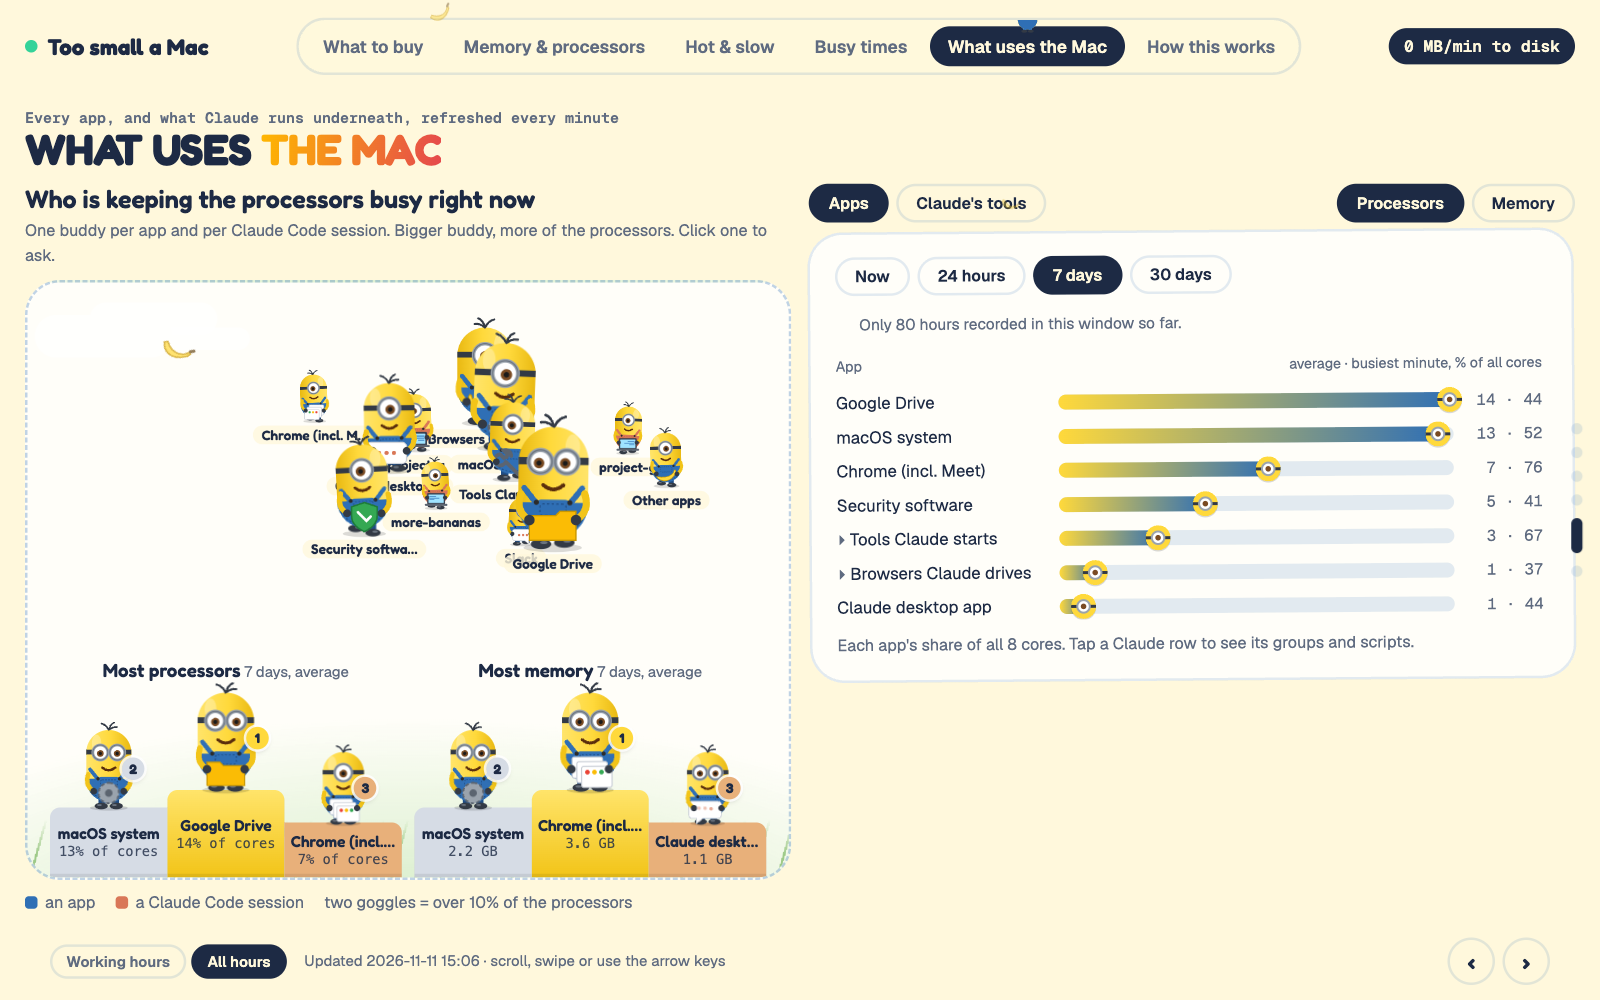
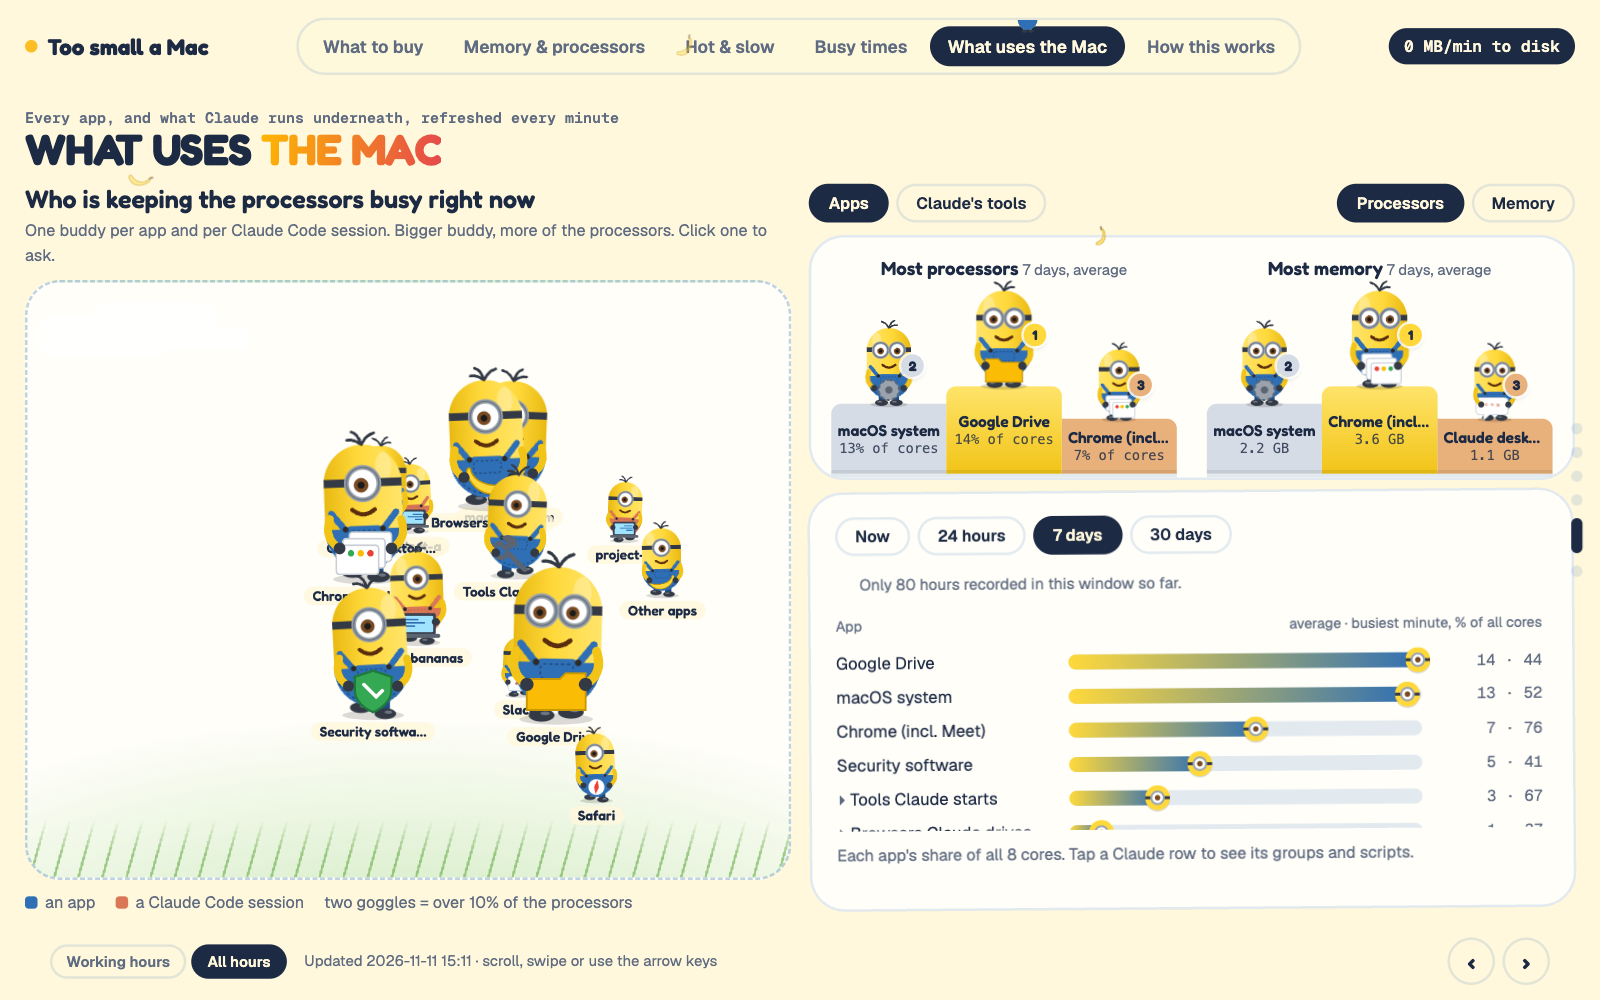
1.11.1: podiums move above the app list, so What uses the Mac is balanced
The two podiums leave the buddy yard for a card at the top of the right
column, above the app list; the list card stretches so both columns end
level. One time window now applies to every list on the tab, so the podium
and whichever list is showing always agree. Figures in the list stay on one
line. The podium hides on the Claude's tools view, since it ranks apps.

Changed region(s): [[0.0312, 0.217, 1.0, 0.93], [0.3125, 0.961, 0.4375, 0.992], [0.0938, 0.341, 0.125, 0.372]]

diff --git a/skills/more-bananas/app/report.py b/skills/more-bananas/app/report.py
@@ -1099,7 +1099,9 @@ h2.big{{font-size:clamp(1.6rem,2.7vw,2.5rem)}} .lede{{max-width:none;font-size:1
 #p-today .two{{align-items:stretch}} #p-today .tmem>.c:last-child .list{{max-height:calc(100dvh - 310px);overflow:auto}}
 svg.hist{{height:calc(100dvh - 430px);width:auto;max-width:100%;margin:0 auto}}
 .howc ul{{display:block;columns:2;column-gap:32px;font-size:12.5px;line-height:1.4;max-width:none}} @media(min-width:1200px){{.howc ul{{columns:3}}}} .howc li{{break-inside:avoid;margin-bottom:8px}}
-.whogrid{{grid-template-columns:1fr 1fr}} .yard{{height:calc(100dvh - 320px)!important}} .jobs .list{{max-height:calc(100dvh - 380px)}}
+.whogrid{{grid-template-columns:1fr 1fr}} .yard{{height:calc(100dvh - 320px)!important}} .jobs .list{{max-height:calc(100dvh - 380px)}} .podcard{{height:196px}} .vv[data-vv=apps] .jobs .list{{max-height:calc(100dvh - 590px)}}
+.row.ur{{grid-template-columns:minmax(0,11rem) 1fr 5.4rem}} .row.ur em{{white-space:nowrap}}
+.whogrid>div:last-child,.whogrid .vv:not([hidden]){{display:flex;flex-direction:column}} .whogrid .vv:not([hidden]){{flex:1}} .whogrid .mbox:not([hidden]){{flex:1}}
 .usebar{{display:flex;gap:10px;flex-wrap:wrap;justify-content:space-between}} .usebar .jtabs{{margin-bottom:10px}}
 #p-rec .hero{{gap:4px 18px;grid-template-columns:auto minmax(0,1fr) minmax(0,1.25fr)}} #p-rec .lesson{{flex-wrap:wrap;font-size:15px;line-height:1.45;padding:12px 16px}} #p-rec .lesson .ctl{{width:100%;justify-content:flex-end;margin-top:6px}} #p-rec .hero .buddy-wrap{{grid-row:1/span 3}} #p-rec .hero #lesson{{grid-column:3;grid-row:1/span 3;align-self:center;margin:0}} #p-rec .hero h1{{font-size:clamp(1.5rem,2.6vw,2.4rem)}}
 .recgrid{{display:grid;grid-template-columns:3fr 2fr;gap:12px;align-items:start}} .recl,.recr{{display:flex;flex-direction:column;gap:12px;min-width:0}}
@@ -1187,6 +1189,7 @@ details.storagebox{{font-size:13px}} details.storagebox>.c{{border:0;padding:8px
 <div class=en style="--n:1"><!--YARD--><script type=application/json id=podium-data>{podium_json}</script></div>
 <div class=en style="--n:2"><div class=usebar><div class="jtabs vtabs" role=group aria-label="Show"><button type=button class="jt vt" data-vv=apps aria-pressed=true>Apps</button><button type=button class="jt vt" data-vv=claude aria-pressed=false>Claude&#x27;s tools</button></div>{mtabs("uses", m_first)}</div>
 <div class=vv data-vv=apps>
+<div class="c podcard" id=podium-host aria-label="The three apps using the most processors and the most memory"></div>
 {f"""<div class="c jobs mbox" data-m=cpu{"" if m_first == "cpu" else " hidden"}><div class=jtabs role=group aria-label="Time window">{cuses_tabs}</div>{cuses_views}
 <p class=note style="margin-top:10px">Each app&#x27;s share of all {cores_n} cores. Tap a Claude row to see its groups and scripts.</p></div>""" if capps else ""}
 <div class="c jobs mbox" data-m=mem{"" if m_first == "mem" else " hidden"}><div class=jtabs role=group aria-label="Time window">{uses_tabs}</div>{uses_views}
@@ -1292,9 +1295,10 @@ details.storagebox{{font-size:13px}} details.storagebox>.c{{border:0;padding:8px
   document.querySelectorAll(".mt").forEach(b => b.addEventListener("click", () => {{ setM(b.dataset.m); try {{ localStorage.setItem("mm-measure", b.dataset.m); }} catch (_) {{}} }}));
   try {{ const mm = localStorage.getItem("mm-measure"); if (mm) setM(mm); }} catch (_) {{}}
   document.querySelectorAll(".jobs .jt").forEach(b => b.addEventListener("click", () => {{
-    const box = b.closest(".jobs"), key = "mm-win-" + b.closest(".panel").id;
-    box.querySelectorAll(".jt").forEach(x => x.setAttribute("aria-pressed", x === b));
-    box.querySelectorAll(".jv").forEach(v => v.hidden = v.dataset.v !== b.dataset.v);
+    const panel = b.closest(".panel"), key = "mm-win-" + panel.id, w = b.dataset.v;
+    panel.querySelectorAll(".jobs").forEach(box => {{ if (!box.querySelector(`.jt[data-v="${{w}}"]`)) return;
+      box.querySelectorAll(".jt").forEach(x => x.setAttribute("aria-pressed", x.dataset.v === w));
+      box.querySelectorAll(".jv").forEach(v => v.hidden = v.dataset.v !== w); }});
     try {{ localStorage.setItem(key, b.dataset.v); }} catch (_) {{}}
   }}));
   document.querySelectorAll(".jobs").forEach(box => {{ try {{ const jv = localStorage.getItem("mm-win-" + box.closest(".panel").id);

diff --git a/skills/more-bananas/app/buddy.py b/skills/more-bananas/app/buddy.py
@@ -182,8 +182,10 @@ YARD_CSS = """
  .mini.walk .leg-b{animation:step .32s ease-in-out infinite alternate-reverse}
  .mini.walk .body{animation:waddle .32s ease-in-out infinite alternate}
 }
-.podiums{position:absolute;left:0;right:0;bottom:0;display:flex;justify-content:space-evenly;align-items:flex-end;gap:10px;padding:0 18px;pointer-events:none;z-index:1}
-.pod{margin:0;flex:1 1 0;min-width:0;max-width:310px;pointer-events:auto}
+.podcard{padding:12px 16px 0!important;margin-bottom:12px;overflow:hidden}
+.podiums{display:flex;justify-content:space-evenly;align-items:flex-end;gap:24px;height:100%}
+.pod{margin:0;flex:1 1 0;min-width:0;max-width:330px}
+.steps{border-bottom:3px solid var(--line)}
 .pod figcaption{font-size:12px;color:var(--mute);text-align:center;margin-bottom:2px;white-space:nowrap;overflow:hidden;text-overflow:ellipsis}
 .pod figcaption b{font:600 15px Fredoka,sans-serif;color:var(--fg)}
 .steps{display:grid;grid-template-columns:repeat(3,minmax(0,1fr));align-items:end}
@@ -199,7 +201,7 @@ YARD_CSS = """
 .step.s3{--mc:#e8b07a} .step.s3 .blk{height:44px;border-top-left-radius:0} .step.s3 .medal{background:#e8b07a}
 .blk b{font:600 12.5px/1.15 Fredoka,sans-serif;white-space:nowrap;overflow:hidden;text-overflow:ellipsis}
 .blk em{font:500 11px/1.1 ui-monospace,monospace;font-style:normal;opacity:.8;white-space:nowrap;overflow:hidden;text-overflow:ellipsis}
-@media(max-width:560px){#yard{height:640px!important}.podiums{flex-direction:column;align-items:center;gap:6px}.pod{flex:none;width:100%}.blk b{font-size:11px}.blk em{font-size:9.5px}.pod figcaption{font-size:10.5px}.pod figcaption b{font-size:13px}}
+@media(max-width:560px){.podiums{flex-direction:column;align-items:center;gap:10px;padding-bottom:4px}.pod{flex:none;width:100%}.blk b{font-size:11px}.blk em{font-size:9.5px}.pod figcaption{font-size:10.5px}.pod figcaption b{font-size:13px}}
 @keyframes step{from{transform:translateY(-3px)}to{transform:translateY(1px)}}
 @keyframes waddle{from{transform:rotate(-3deg)}to{transform:rotate(3deg)}}
 """
@@ -272,14 +274,16 @@ YARD_JS = """<script>
     }).join("");
   };
   const winNow = () => { try { return localStorage.getItem("mm-win-p-uses") || "now"; } catch (_) { return "now"; } };
-  if (pod) {
-    yard.appendChild(stage); drawPodium(winNow());
+  const host = document.getElementById("podium-host");
+  if (host && !pod) host.hidden = true;
+  if (pod && host) {
+    host.appendChild(stage); drawPodium(winNow());
     const panel = yard.closest(".panel");
     if (panel) panel.addEventListener("click", ev => { const b = ev.target.closest(".jobs .jt"); if (b && b.dataset.v) drawPodium(b.dataset.v); });
   }
   if (!crowd.length) return;
   const W = () => yard.clientWidth, H = () => yard.clientHeight;
-  const floor = () => H() - (stage.isConnected ? stage.offsetHeight : 0);   // wanderers stay above the podium
+  const floor = () => H() - (yard.contains(stage) ? stage.offsetHeight : 0);   // wanderers stay above anything standing in the yard
   // Buddies shrink a little when the podium leaves them less room (a short laptop screen), so they do not pile up.
   const bw = c => (34 + 54 * Math.sqrt(size(c) / max)) * Math.min(1, Math.max(.6, floor() / 380));
   const inner = (c, i) => svg(c, i) + `<span class="tag">${c.name.length > 16 ? c.name.slice(0, 15) + "…" : c.name}</span>`

diff --git a/tests/test_podium.py b/tests/test_podium.py
@@ -33,6 +33,7 @@ def podium_for(apps, cpu_apps=None):
                       mood='calm', tone='#34d399', fav='', by_group={}, now_d={}, cores=10,
                       load1=4, swapped_total_gb=0, comp_gb=2, wired_gb=3, squeezed_gb=4, hours='all')
         page = report.render(values)
+    assert 'id=podium-host' in page, 'the podium card is missing from the page'
     found = re.search(r'<script type=application/json id=podium-data>(.*?)</script>', page)
     return json.loads(found.group(1))
 

diff --git a/README.md b/README.md
@@ -37,7 +37,7 @@ This measures instead. It reads macOS's own memory figures once a minute, keeps 
 | 📈 | **Memory & processors, minute by minute** | One chart: memory needed against your RAM line with the overflow onto disk, and work waiting for the processors drawn so the same dotted line means full for both. Beside it, what held the memory at the busiest minute. Hover any minute, or switch between today and the last 3, 7 or 30 days (Hot & slow has the same switch). |
 | 🔥 | **Hot & slow** | Chip temperature, fan speed, processors, graphics, disk traffic and memory pushed to disk, minute by minute, each with a "too much" line (90 °C, fan at 60%, more work than cores…). Plus which apps kept the processors busy while it ran hot. No admin rights needed. |
 | 📅 | **Busy times, by day and by hour** | One timeline since the history start: Claude Code sessions open at once above the line, below it the minutes something held the Mac up each day, coloured by what, then memory over your RAM. A switch shows a weekday × hour heatmap instead, opening on what held each hour up. |
-| 🧸 | **Who is using it** | A podium for the three apps using the most memory and the three using the most processor, over the same window as the list (now, 24 hours, 7 days or 30 days). Above it, one walking banana buddy per app and per Claude Code session, sized by processor share or memory (whichever held the Mac up more, and it follows the switch). Every app's processor share and memory now / 24 h / 7 days / 30 days, opening on whichever held the Mac up more. |
+| 🧸 | **Who is using it** | A podium for the three apps using the most memory and the three using the most processor, over the same window as the list below it (now, 24 hours, 7 days or 30 days). Beside them, one walking banana buddy per app and per Claude Code session, sized by processor share or memory (whichever held the Mac up more, and it follows the switch). Every app's processor share and memory now / 24 h / 7 days / 30 days, opening on whichever held the Mac up more. |
 | 🤖 | **What uses the Mac: Claude's tools** | Claude's tools grouped into plain kinds (test browsers, page checks, cloud tools, plug-ins, build scripts, shell), each opening into its scripts and the session folder that started them, by processor share or by memory. |
 | 🪶 | **Light** | One run takes about 0.6 s a minute and stores about 2 MB of readings a day. Nothing is sent anywhere. |
 | 🛟 | **Survives a dead laptop** | Optional copy of readings and page to Google Drive every 15 minutes. |

diff --git a/skills/more-bananas/SKILL.md b/skills/more-bananas/SKILL.md
@@ -42,9 +42,9 @@ Nothing is sent anywhere. Everything lives in `~/memlog/` (readings as CSV, the 
    (from `~/.claude/projects` transcripts); below it minutes held up per day by cause (a day counts as held up
    after half an hour), then memory over the RAM size, per measured day. By hour of the week: a weekday by
    hour heatmap, opening on what held each hour up (switch to memory needed).
-5. **What uses the Mac**: two podiums at the bottom of the buddy yard, for the three app groups using the most memory
-   and the three using the most processors ("Other apps" never places), over the same window as the list beside them
-   (now, 24 hours, 7 days or 30 days, averaged); above them a walking buddy per app and per Claude session (sized by processor share or memory,
+5. **What uses the Mac**: two podiums above the app list, for the three app groups using the most memory and the
+   three using the most processors ("Other apps" never places), over the same window as the list below them (now,
+   24 hours, 7 days or 30 days, averaged; one window for every list on the tab); beside them a walking buddy per app and per Claude session (sized by processor share or memory,
    following the same switch), plus every app group's processor share and memory
    now / 24 h / 7 days / 30 days (average and busiest minute); Claude's tools and test browsers expand into
    groups and scripts. An Apps / Claude's tools switch shows Claude's tools and hidden test browsers by kind
